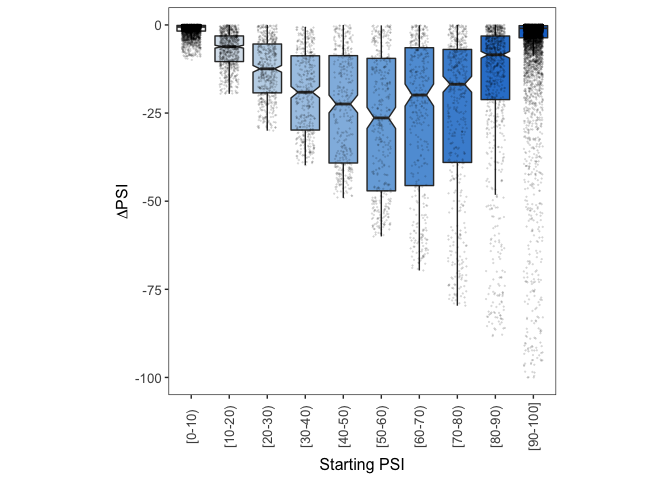
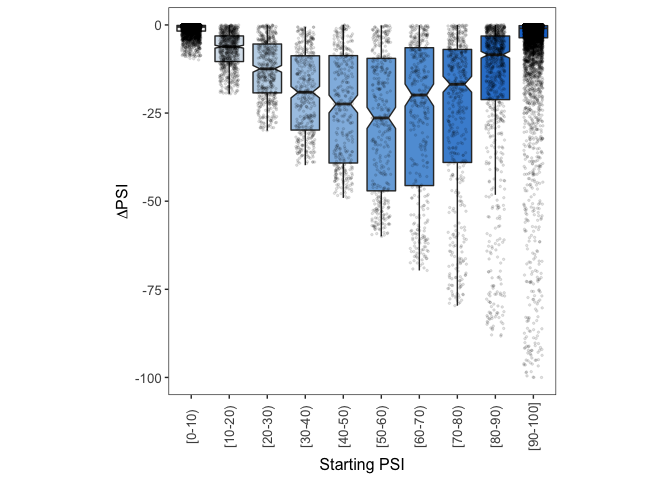
corrected point size in Exon.Down plots

Changed region(s): [[0.5, 0.0312, 0.8125, 0.7812], [0.25, 0.0312, 0.4688, 0.3438]]

diff --git a/Exon_Inclusion_Across_Conditions/Brain_Skin/002_Downstream_analysis.md b/Exon_Inclusion_Across_Conditions/Brain_Skin/002_Downstream_analysis.md
@@ -194,7 +194,7 @@ ggplot(data = Exons.Down, mapping = aes(x = Group,
               position=position_jitter(width=0.25,
                                        height=0),
               alpha=0.1,
-              size=0.1,
+              size=0.5,
               show.legend=FALSE) +
   theme_bw() +
   theme(panel.grid.major = element_blank(),

diff --git a/Exon_Inclusion_Across_Conditions/HepG2_Huvek/002_Downstream_analysis.md b/Exon_Inclusion_Across_Conditions/HepG2_Huvek/002_Downstream_analysis.md
@@ -169,7 +169,7 @@ ggplot(data = Exons.Down, mapping = aes(x = Group,
               position=position_jitter(width=0.25,
                                        height=0),
               alpha=0.1,
-              size=0.1,
+              size=0.5,
               show.legend=FALSE) +
   theme_bw() +
   theme(panel.grid.major = element_blank(),
